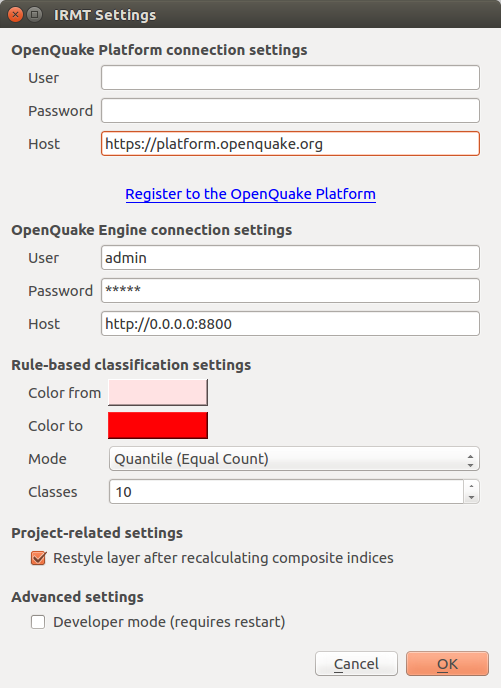
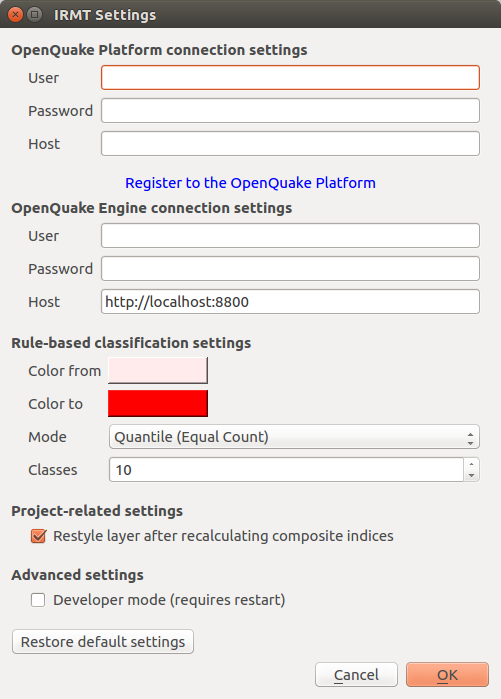
Update manual explaining the button to restore default settings

diff --git a/svir/help/source/04_irmt_settings.rst b/svir/help/source/04_irmt_settings.rst
@@ -54,5 +54,9 @@ to increase the verbosity of logging. The latter is useful for developers or
 advanced users because logging is critical for troubleshooting, but it is not
 recommended for standard users.
 
+The button :guilabel:`Restore default settings` can be used to discard the
+settings customized by the user and to replace them with the factory defaults.
+Please be aware that such operation, once confirmed, can not be undone.
+
 
 .. |icon-connection-settings| image:: images/iconConnectionSettings.png
